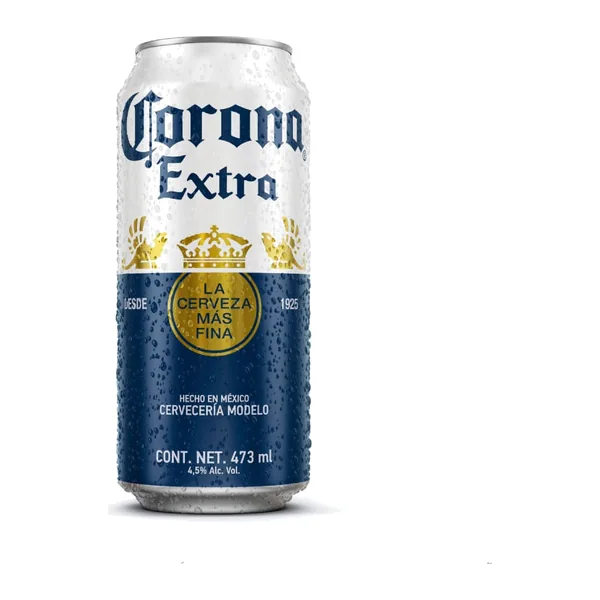
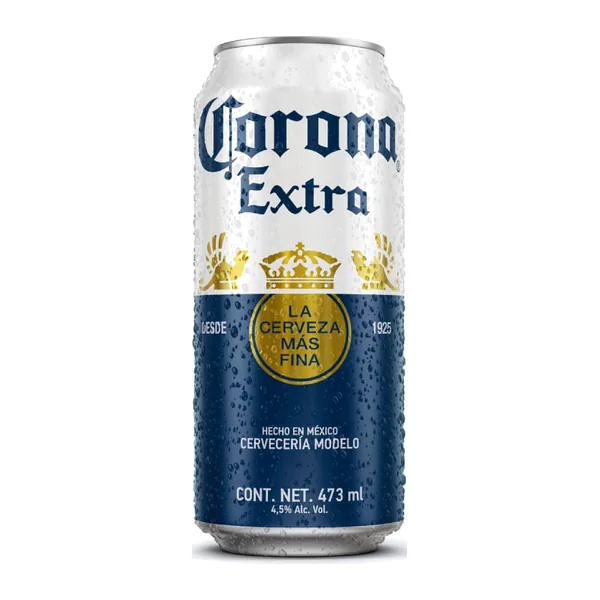
Verificación independiente de fotos: 13 fotos corregidas y megamenú móvil
- Corona, Cartavio Black, Queirolo y leche condensada Nestlé estaban descentradas por motas sueltas: el recorte ahora ignora restos del pie legal.
- Florida y Virutex sin insignias flotantes; Ace sin logo de esquina ni "4kg"; Bolívar y Opal sin código de catálogo.
- Valle Norte 750g con foto limpia; Cartavio 1kg con contraste y nitidez suaves; Protex tripack 330g (sin "Precio especial"; recorte manual porque se cortaba el empaque).
- Papel aluminio Reynolds (franja de 72 px) reemplazado en su misma posición por Bolsas para Sandwich Ziploc x 50.
- Nombres alineados con la etiqueta: Laive 390g, Bolívar Bebé 190g x 2, Protex tripack 3 x 110g.
- Megamenú en celular: 2 columnas (≤640px) y 3 (≤960px); a 375px las miniaturas se montaban sobre el texto.

diff --git a/data.js b/data.js
@@ -44,7 +44,7 @@ Leche Gloria Entera Lata 390g|Gloria|lacteos|4.20|48
 Leche Gloria Light Lata 390g|Gloria|lacteos|4.40|48
 Mezcla Láctea Ideal Amanecer 390g|Ideal|lacteos|3.50|48
 Mezcla Láctea Pura Vida 390g|Pura Vida|lacteos|3.40|48
-Leche Laive Sin Lactosa 400g|Laive|lacteos|4.50|24
+Leche Laive Sin Lactosa 390g|Laive|lacteos|4.50|24
 Leche Condensada Nestlé 393g|Nestlé|lacteos|6.90|24
 Yogurt Gloria Zero Lacto Fresa 1kg|Gloria|lacteos|6.80|12
 Mantequilla Laive con Sal 180g|Laive|lacteos|9.90|20
@@ -115,7 +115,7 @@ Detergente Líquido Ariel Revitacolor 1.2L|Ariel|limpieza|24.90|6
 Detergente Bolívar Cuidado y Suavidad 2.4kg|Bolívar|limpieza|26.50|6
 Detergente Opal Ultra 730g|Opal|limpieza|8.50|12
 Detergente Ace Limón 4kg|Ace|limpieza|39.90|4
-Jabón Bolívar Bebé 190g|Bolívar|limpieza|3.90|50
+Jabón Bolívar Bebé 190g x 2|Bolívar|limpieza|3.90|50
 Lavavajilla Sapolio Limón en pasta 800g|Sapolio|limpieza|6.40|12
 Lejía Clorox 4L|Clorox|limpieza|12.90|4
 Limpiatodo Poett Lavanda 900ml|Poett|limpieza|5.90|12
@@ -125,7 +125,7 @@ Shampoo Head & Shoulders 375ml|Head & Shoulders|cuidado|19.90|12
 Shampoo Sedal Ceramidas 340ml|Sedal|cuidado|12.90|12
 Pasta Dental Colgate Triple Acción 75ml|Colgate|cuidado|4.50|24
 Pasta Dental Dento Máxima Blancura 75ml|Dento|cuidado|4.50|24
-Jabón Protex Avena x 3|Protex|cuidado|9.90|12
+Jabón Protex Avena Tripack 3 x 110g|Protex|cuidado|11.90|12
 Toallas Higiénicas Nosotras Invisible Natural x 30|Nosotras|cuidado|10.60|12
 Desodorante Rexona Clinical 48g|Rexona|cuidado|16.90|12
 Máquina de Afeitar Gillette Prestobarba x 2|Gillette|cuidado|6.90|24
@@ -142,7 +142,7 @@ Vasos Descartables Pamolsa 6.5oz x 50|Pamolsa|descartables|3.50|20
 Platos Biodegradables U-Thil 6 pulg x 25|U-Thil|descartables|9.90|20
 Bolsas de Basura Virutex 75L x 10|Virutex|descartables|8.90|20
 Servilletas Elite x 300|Elite|descartables|4.90|20
-Papel Aluminio Reynolds 7.6m|Reynolds|descartables|5.90|24
+Bolsas para Sandwich Ziploc x 50|Ziploc|descartables|16.90|12
 Bolsas Herméticas con Cierre Bell's x 20|Bell's|descartables|8.50|20`;
 
 const COLORS = ['#d7141a','#1e5aa8','#0b8a3e','#f2a900','#6a2c91','#e35d0e','#0a7f8c','#8b5a2b','#c2185b','#1b1b1b'];

diff --git a/app.css b/app.css
@@ -633,6 +633,7 @@ table.t .num{text-align:right;font-variant-numeric:tabular-nums}
   .sum{position:static}
   .adm-nav{position:static;display:flex;overflow-x:auto;scrollbar-width:none}
   .adm-nav a{white-space:nowrap}
+  .mega-g{grid-template-columns:repeat(3,minmax(0,1fr))}
   .banners{grid-template-columns:1fr}
   .ints{grid-template-columns:repeat(2,minmax(0,1fr))}
   .info3{grid-template-columns:1fr}
@@ -642,6 +643,7 @@ table.t .num{text-align:right;font-variant-numeric:tabular-nums}
   .catrow .who{display:none}
 }
 @media (max-width:640px){
+  .mega-g{grid-template-columns:repeat(2,minmax(0,1fr))}.mega-g span{min-width:0}
   .wrap{padding:0 16px}
   .dlv-m{padding:0 16px}
   .hrow{flex-wrap:wrap;gap:6px 8px;min-height:0;padding:8px 16px 10px}

diff --git a/tools/fotos_tiendas.py b/tools/fotos_tiendas.py
@@ -221,17 +221,24 @@ def normalizar(data, caja_manual=None):
         im = fondo
     im = im.convert("RGB")
     if caja_manual:
-        if isinstance(caja_manual, dict):  # {"blanquear": [[x0,y0,x1,y1], ...], "crop": [...]}
+        if isinstance(caja_manual, dict):  # {"blanquear": [[x0,y0,x1,y1], ...], "crop": [...], "mejorar": true}
             from PIL import ImageDraw
             for r in caja_manual.get("blanquear", []):
                 ImageDraw.Draw(im).rectangle(r, fill=(255, 255, 255))
-            caja_manual = caja_manual["crop"]
+            if caja_manual.get("mejorar"):  # foto de tienda lavada o blanda: contraste y nitidez suaves
+                from PIL import ImageEnhance, ImageFilter
+                im = ImageEnhance.Color(ImageEnhance.Contrast(im).enhance(1.22)).enhance(1.12).filter(ImageFilter.UnsharpMask(radius=2, percent=90, threshold=2))
+            caja_manual = caja_manual.get("crop") or (0, 0, im.width, im.height)
         im = im.crop(tuple(caja_manual))
     else:
         im, _ = quitar_banda(im)
     dif = ImageChops.difference(im, Image.new("RGB", im.size, (255, 255, 255))).convert("L").point(lambda v: 255 if v > 14 else 0)
-    if dif.getbbox():
-        im = im.crop(dif.getbbox())
+    import numpy as np
+    m = np.asarray(dif) > 0
+    umbral = max(4, int(0.02 * max(im.size)))  # filas/columnas con menos pixeles son motas sueltas (restos del pie legal), no producto
+    ys, xs = np.where(m.sum(axis=1) >= umbral)[0], np.where(m.sum(axis=0) >= umbral)[0]
+    if len(xs) and len(ys):
+        im = im.crop((int(xs[0]), int(ys[0]), int(xs[-1]) + 1, int(ys[-1]) + 1))
     caja = int(LADO * (1 - 2 * MARGEN))
     k = min(caja / im.width, caja / im.height, 2.0)
     im = im.resize((max(1, round(im.width * k)), max(1, round(im.height * k))), Image.LANCZOS)
